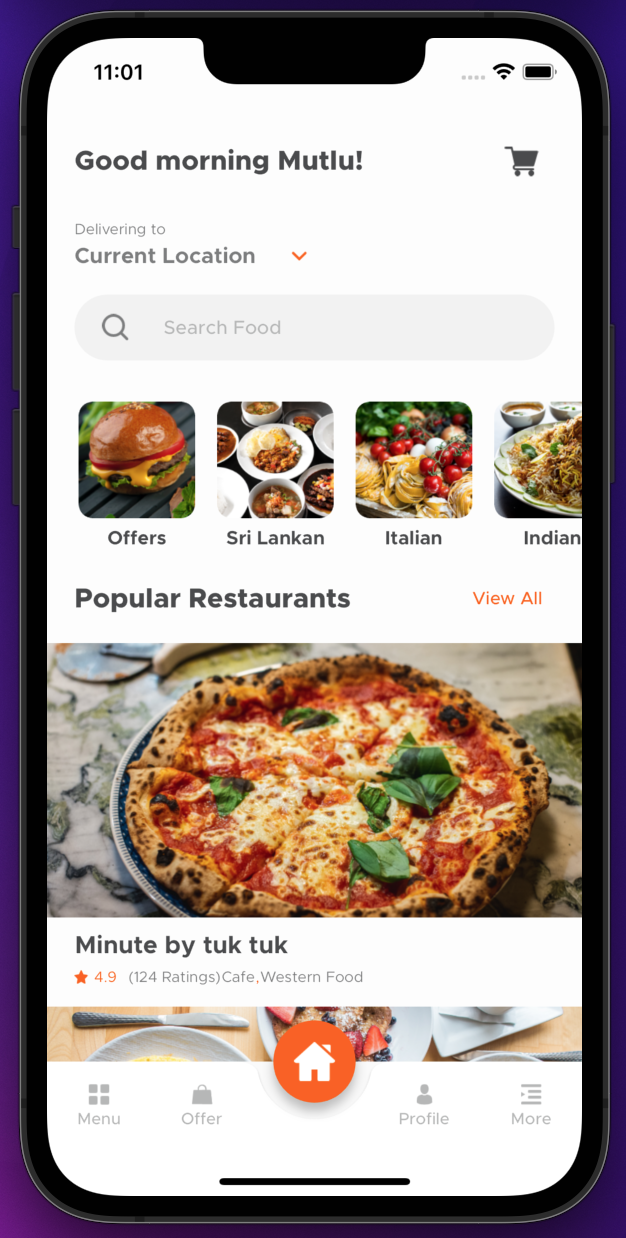
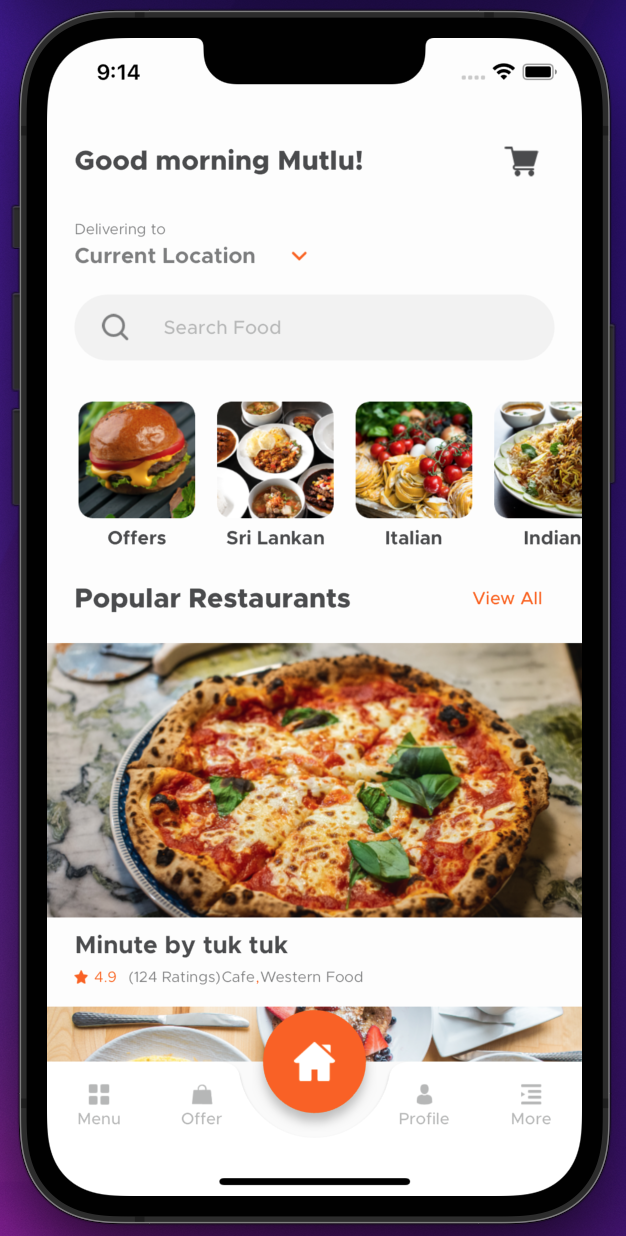
Menu screen created. Tabbar view updated.

diff --git a/lib/view/menu/menu_view.dart b/lib/view/menu/menu_view.dart
@@ -1,0 +1,221 @@
+import 'package:flutter/material.dart';
+import 'package:meal_monkey/common/color_extension.dart';
+import 'package:meal_monkey/common_widget/round_textfield.dart';
+
+class MenuView extends StatefulWidget {
+  const MenuView({super.key});
+
+  @override
+  State<MenuView> createState() => _MenuViewState();
+}
+
+class _MenuViewState extends State<MenuView> {
+  List menuArr = [
+    {
+      'name': 'Food',
+      'image': 'assets/images/menu_1.png',
+      'count': '120',
+    },
+    {
+      'name': 'Beverages',
+      'image': 'assets/images/menu_2.png',
+      'count': '220',
+    },
+    {
+      'name': 'Desserts',
+      'image': 'assets/images/menu_3.png',
+      'count': '155',
+    },
+    {
+      'name': 'Promotions',
+      'image': 'assets/images/menu_4.png',
+      'count': '25',
+    },
+  ];
+  TextEditingController searchTextField = TextEditingController();
+
+  @override
+  Widget build(BuildContext context) {
+    var media = MediaQuery.of(context).size;
+    return Scaffold(
+      backgroundColor: const Color(0xfffDfDfD),
+      body: Stack(
+        alignment: Alignment.centerLeft,
+        children: [
+          Container(
+            margin: const EdgeInsets.only(top: 185),
+            width: media.width * 0.28,
+            height: media.height * 0.58,
+            decoration: BoxDecoration(
+              color: TColor.primary,
+              borderRadius: const BorderRadius.only(
+                topRight: Radius.circular(35),
+                bottomRight: Radius.circular(35),
+              ),
+            ),
+          ),
+          SingleChildScrollView(
+            child: Padding(
+              padding: const EdgeInsets.symmetric(vertical: 20),
+              child: Column(
+                children: [
+                  const SizedBox(
+                    height: 46,
+                  ),
+                  Padding(
+                    padding: const EdgeInsets.symmetric(horizontal: 20),
+                    child: Row(
+                      mainAxisAlignment: MainAxisAlignment.spaceBetween,
+                      children: [
+                        Text(
+                          'Menu',
+                          style: TextStyle(
+                            color: TColor.primaryText,
+                            fontSize: 20,
+                            fontWeight: FontWeight.w800,
+                          ),
+                        ),
+                        IconButton(
+                          onPressed: () {},
+                          icon: Image.asset(
+                            'assets/images/shopping_cart.png',
+                            width: 25,
+                            height: 25,
+                          ),
+                        ),
+                      ],
+                    ),
+                  ),
+                  const SizedBox(
+                    height: 20,
+                  ),
+                  Padding(
+                    padding: const EdgeInsets.symmetric(horizontal: 20),
+                    child: RoundTextField(
+                      placeHolder: 'Search Food',
+                      controller: searchTextField,
+                      left: Container(
+                        alignment: Alignment.center,
+                        width: 30,
+                        child: Image.asset(
+                          'assets/images/search.png',
+                          width: 20,
+                          height: 20,
+                        ),
+                      ),
+                    ),
+                  ),
+                  const SizedBox(
+                    height: 30,
+                  ),
+                  ListView.builder(
+                    itemCount: menuArr.length,
+                    padding: const EdgeInsets.symmetric(
+                      horizontal: 20,
+                      vertical: 30,
+                    ),
+                    physics: const NeverScrollableScrollPhysics(),
+                    shrinkWrap: true,
+                    itemBuilder: ((context, index) {
+                      var menuObj = menuArr[index] as Map? ?? {};
+                      return Stack(
+                        alignment: Alignment.centerRight,
+                        children: [
+                          Container(
+                            margin: const EdgeInsets.only(
+                              top: 8,
+                              bottom: 8,
+                              right: 20,
+                            ),
+                            width: media.width - 100,
+                            height: 90,
+                            decoration: const BoxDecoration(
+                              color: Colors.white,
+                              borderRadius: BorderRadius.only(
+                                  topLeft: Radius.circular(35),
+                                  bottomLeft: Radius.circular(35),
+                                  topRight: Radius.circular(10),
+                                  bottomRight: Radius.circular(10)),
+                              boxShadow: [
+                                BoxShadow(
+                                  color: Colors.black12,
+                                  blurRadius: 7,
+                                  offset: Offset(0, 4),
+                                ),
+                              ],
+                            ),
+                          ),
+                          Row(
+                            mainAxisAlignment: MainAxisAlignment.start,
+                            crossAxisAlignment: CrossAxisAlignment.center,
+                            children: [
+                              Image.asset(
+                                menuObj['image'].toString(),
+                                width: 80,
+                                height: 80,
+                                fit: BoxFit.contain,
+                              ),
+                              const SizedBox(
+                                width: 15,
+                              ),
+                              Expanded(
+                                child: Column(
+                                  crossAxisAlignment: CrossAxisAlignment.start,
+                                  children: [
+                                    Text(
+                                      menuObj['name'].toString(),
+                                      style: TextStyle(
+                                        color: TColor.primaryText,
+                                        fontSize: 22,
+                                        fontWeight: FontWeight.w700,
+                                      ),
+                                    ),
+                                    const SizedBox(
+                                      height: 4,
+                                    ),
+                                    Text(
+                                      '${menuObj['count'].toString()} items',
+                                      style: TextStyle(
+                                        color: TColor.secondaryText,
+                                        fontSize: 11,
+                                      ),
+                                    )
+                                  ],
+                                ),
+                              ),
+                              Container(
+                                width: 35,
+                                height: 35,
+                                decoration: BoxDecoration(
+                                  color: Colors.white,
+                                  borderRadius: BorderRadius.circular(17.5),
+                                  boxShadow: const [
+                                    BoxShadow(
+                                      color: Colors.black12,
+                                      blurRadius: 4,
+                                      offset: Offset(0, 2),
+                                    ),
+                                  ],
+                                ),
+                                alignment: Alignment.center,
+                                child: Image.asset(
+                                  'assets/images/btn_next.png',
+                                  width: 15,
+                                  height: 15,
+                                ),
+                              ),
+                            ],
+                          ),
+                        ],
+                      );
+                    }),
+                  ),
+                ],
+              ),
+            ),
+          ),
+        ],
+      ),
+    );
+  }
+}

diff --git a/lib/view/main_tabview/main_tab_view.dart b/lib/view/main_tabview/main_tab_view.dart
@@ -2,6 +2,7 @@ import 'package:flutter/material.dart';
 import 'package:meal_monkey/common/color_extension.dart';
 import 'package:meal_monkey/common_widget/tab_button.dart';
 import 'package:meal_monkey/view/home/home_view.dart';
+import 'package:meal_monkey/view/menu/menu_view.dart';
 
 class MainTabView extends StatefulWidget {
   const MainTabView({super.key});
@@ -21,8 +22,8 @@ class _MainTabViewState extends State<MainTabView> {
       floatingActionButtonLocation:
           FloatingActionButtonLocation.miniCenterDocked,
       floatingActionButton: SizedBox(
-        width: 60,
-        height: 60,
+        width: 75,
+        height: 75,
         child: FloatingActionButton(
           onPressed: () {
             if (selectedTab != 2) {
@@ -47,7 +48,7 @@ class _MainTabViewState extends State<MainTabView> {
           surfaceTintColor: TColor.white,
           shadowColor: Colors.black,
           elevation: 1,
-          notchMargin: 12,
+          notchMargin: 18,
           height: 64,
           shape: const CircularNotchedRectangle(),
           child: SafeArea(
@@ -61,7 +62,7 @@ class _MainTabViewState extends State<MainTabView> {
                   onTap: () {
                     if (selectedTab != 0) {
                       selectedTab = 0;
-                      selectPageView = Container();
+                      selectPageView = const MenuView();
                     }
                     if (mounted) {
                       setState(() {});

diff --git a/README.md b/README.md
@@ -32,3 +32,7 @@ samples, guidance on mobile development, and a full API reference.
 ### Home Screen
 
 <img src="https://github.com/MutluClkn/meal_monkey/blob/main/documents/home1.png " width="222" height="430"><img src="https://github.com/MutluClkn/meal_monkey/blob/main/documents/home2.png " width="222" height="430"><img src="https://github.com/MutluClkn/meal_monkey/blob/main/documents/home3.png " width="222" height="430">
+
+### Menu Screen
+
+<img src="https://github.com/MutluClkn/meal_monkey/blob/main/documents/menu.png " width="222" height="430">
